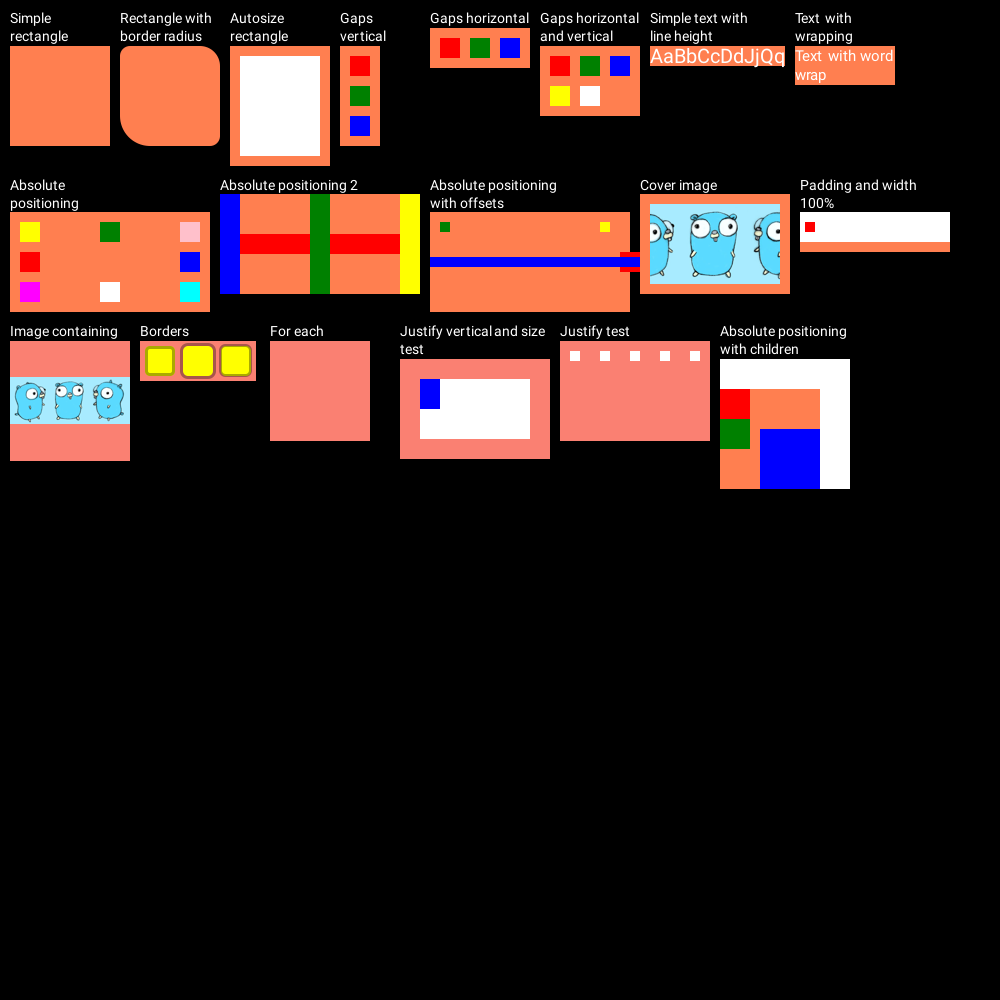
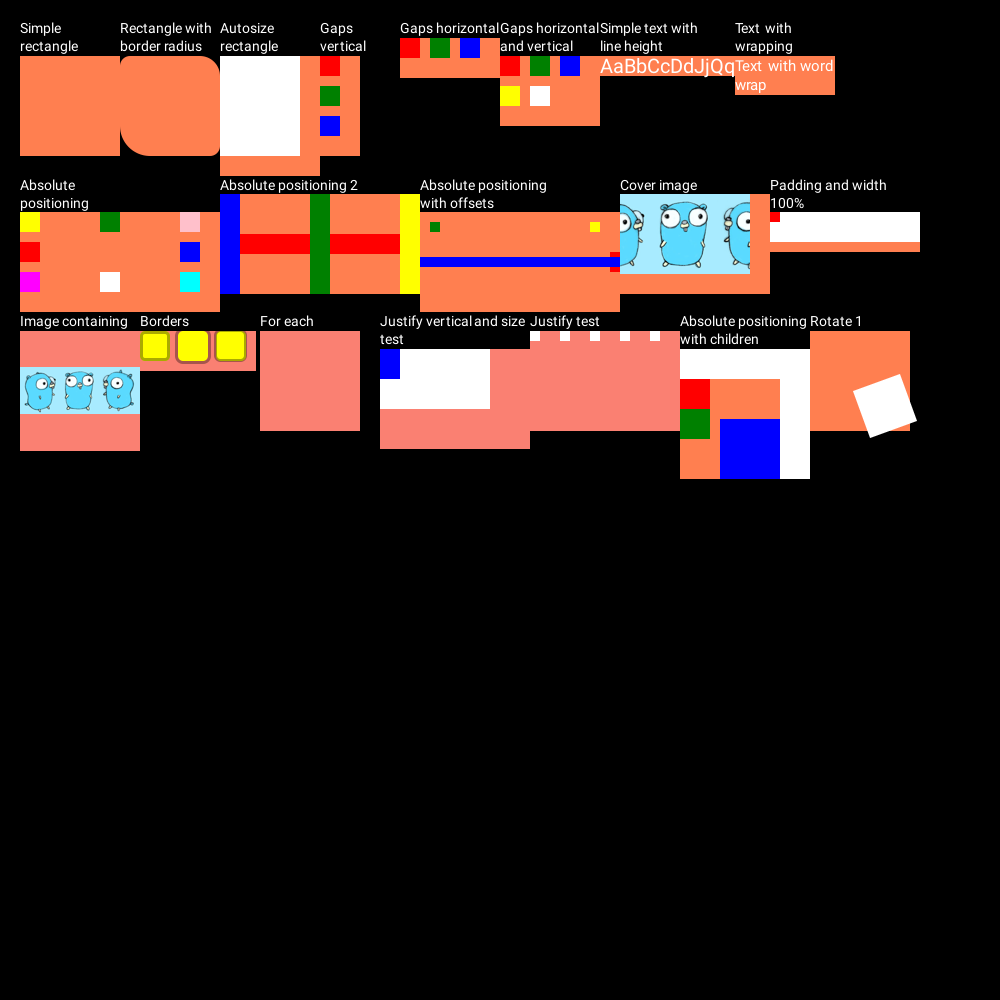
fix for rotation with abs positions

Changed region(s): [[0.0, 0.0, 0.93, 0.496], [0.899, 0.186, 0.961, 0.248], [0.868, 0.155, 0.899, 0.186]]

diff --git a/render/render.go b/render/render.go
@@ -48,8 +48,8 @@ func Do(nodes layout.Nodes) *image.RGBA {
 		state := stack.Last()
 		if state.dst == nil || math.Abs(n.Props.Rotation) > math.SmallestNonzeroFloat64 {
 			state.dst = utils.NewRGBAImageFromPool(int(math.Ceil(n.Size.W)), int(math.Ceil(n.Size.H)))
-			left, top := getLeftTopOffsets(state.node, n)
-			drawNode(&cache, state.dst, n, left, top)
+			//left, top := getLeftTopOffsets(state.node, n)
+			drawNode(&cache, state.dst, n, 0, 0)
 			state.pos = utils.Pos{
 				Left: n.Props.Padding[3],
 				Top:  n.Props.Padding[0],
@@ -58,8 +58,8 @@ func Do(nodes layout.Nodes) *image.RGBA {
 			left, top := getLeftTopOffsets(state.node, n)
 			drawNode(&cache, state.dst, n, state.pos.Left+left, state.pos.Top+top)
 			state.pos = utils.Pos{
-				Left: left + state.pos.Left + n.Props.Padding[3],
-				Top:  top + state.pos.Top + n.Props.Padding[0],
+				Left: left + state.pos.Left,
+				Top:  top + state.pos.Top,
 			}
 		}
 		state.node = n
@@ -91,9 +91,12 @@ func popupStack(stack *utils.Stack[drawState], level int) {
 				currBounds := state.dst.Bounds()
 				dx := rBounds.Dx() - currBounds.Dx()
 				dy := rBounds.Dy() - currBounds.Dy()
+				left, top := getLeftTopOffsets(upperState.node, state.node)
+				topPadding := upperState.node.Props.Padding[0]
+				leftPadding := upperState.node.Props.Padding[3]
 				bounds := image.Rect(
-					int(state.node.Pos.Left)-dx/2, int(state.node.Pos.Top)-dy/2,
-					int(state.node.Pos.Left)-dx/2+rBounds.Dx(), int(state.node.Pos.Top)-dy/2+rBounds.Dy())
+					int(upperState.pos.Left+left+leftPadding)-dx/2, int(upperState.pos.Top+top+topPadding)-dy/2,
+					int(upperState.pos.Left+left+leftPadding)-dx/2+rBounds.Dx(), int(upperState.pos.Top+top+topPadding)-dy/2+rBounds.Dy())
 				draw.Draw(upperState.dst, bounds, rotated, image.Point{}, draw.Over)
 				utils.ReleaseImage(state.dst)
 			}
